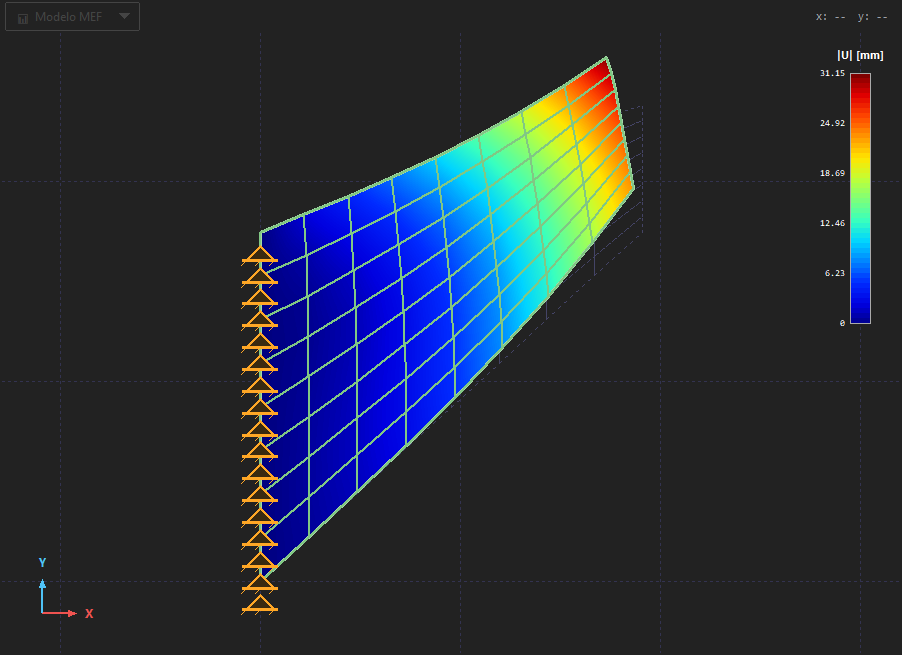
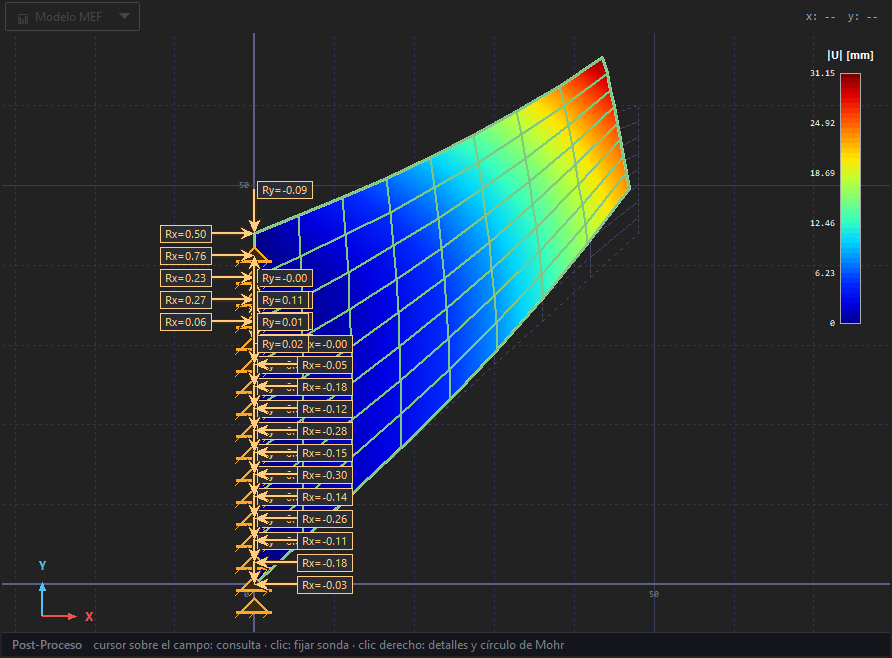
Tesis: las tablas que rompio APA, y las 21 figuras regeneradas
Las tablas se habian desconfigurado: la opcion [document] de ragged2e activa
"raggedrightboxes", que reemplaza el \parindent\z@ de \@arrayparboxrestore por
un \RaggedRight. Como \RaggedRight aplica \RaggedRightParindent, TODA celda p{}
quedaba con 1,27 cm de sangria en su primera linea, asi que el encabezado y el
primer renglon de cada celda se corrian a la derecha y los siguientes quedaban
al ras. Se veia roto en la Nomenclatura y en la tabla de variables. El parche
repone \parindent\z@ y ademas \hyphenpenalty=50: sin guiones, una columna
angosta no puede partir "caracteristico" y se desborda.

De paso, el mismo \hyphenpenalty=10000 desbordaba el texto corrido. ragged2e
limita el estiramiento del margen derecho a 2 em, y sin guiones TeX no podia
cortar la palabra ni correrla: la metia en el margen. Eran 254 lineas, la peor
por 1,7 cm. Con \RaggedRightRightskip = 0pt plus 1fil el renglon termina antes,
que es la bandera derecha que pide APA. Quedaron 0.

Tambien: los indices van justificados (sus puntos suspensivos peleaban con el
rightskip libre), los titulos de seccion pasan a [block] para que uno largo
envuelva en vez de salirse, y dos ecuaciones del Anexo G se parten en dos
renglones. La tabla de nodos del Anexo G reparte 0,34/0,62 en vez de mitad y
mitad, porque el bloque de parametros globales pide 9,4 cm.

Overfull hbox: 254 -> 0. 148 -> 149 hojas.

Figuras: las 21 eran del 1-2 de junio, anteriores al rediseno de la capa visual,
[…]

diff --git a/tesis/preambulo.tex b/tesis/preambulo.tex
@@ -57,8 +57,17 @@
 % Para volver a texto justificado, comentar estas tres lineas.
 \usepackage[document]{ragged2e}
 % ragged2e pone la sangria de primera linea en 0 al activar \RaggedRight; APA la
-% quiere en 1,27 cm, asi que se restituye por su propio parametro.
+% quiere en 1,27 cm, asi que se restituye por su propio parametro. OJO: este
+% parametro tambien entra en las celdas p{} de las tablas, donde no va; se lo
+% neutraliza mas abajo, en el parche de \@arrayparboxrestore.
 \setlength{\RaggedRightParindent}{1.27cm}
+% Bandera derecha LIBRE. ragged2e limita por defecto el estiramiento del margen
+% derecho a 2 em, y con los guiones prohibidos eso deja a TeX sin salida: no
+% puede cortar la palabra ni correrla al renglon siguiente, asi que la mete en
+% el margen. Eran 254 lineas desbordadas, la peor por 1,7 cm. Con "plus 1fil"
+% el renglon simplemente termina antes, que es la bandera derecha de verdad y
+% lo que APA pide ("leave the right margin uneven, or ragged").
+\setlength{\RaggedRightRightskip}{0pt plus 1fil}
 \hyphenpenalty=10000
 \exhyphenpenalty=10000
 
@@ -67,6 +76,31 @@
 \AtBeginEnvironment{tabularx}{\singlespacing}
 \AtBeginEnvironment{longtable}{\singlespacing}
 \AtBeginEnvironment{lstlisting}{\singlespacing}
+
+% --- Las celdas p{} NO heredan la sangria ni la prohibicion de guiones ---
+% La opcion [document] de ragged2e activa "raggedrightboxes", que reemplaza el
+% \parindent\z@ de \@arrayparboxrestore por un \RaggedRight. Como \RaggedRight
+% aplica \RaggedRightParindent, TODA celda p{} quedaba con 1,27 cm de sangria en
+% su primera linea: el encabezado y la primera linea de cada celda se corrian a
+% la derecha y las lineas siguientes quedaban al ras, que es exactamente el
+% desalineado que se veia en la Nomenclatura y en la tabla de variables.
+% Ademas, sin guiones una columna angosta no puede partir "caracteristico" ni
+% "discretizacion" y se desborda. Adentro de una tabla la norma APA no manda:
+% permite explicitamente que el cuerpo se componga como resulte mas efectivo.
+\makeatletter
+\apptocmd{\@arrayparboxrestore}{%
+  \parindent\z@
+  \hyphenpenalty=50 \exhyphenpenalty=50 % los valores por defecto de LaTeX
+}{}{\PackageError{tesis}{No se pudo parchear \string\@arrayparboxrestore}{}}
+
+% --- Los indices (contenido, figuras, tablas) van justificados ---
+% Sus renglones terminan en un relleno de puntos y el numero de pagina; con la
+% bandera derecha libre ese relleno pelea con el \rightskip y el titulo de la
+% figura se mete en el margen. No son texto corrido, asi que la alineacion de
+% APA no les aplica.
+\let\tesis@starttoc\@starttoc
+\renewcommand{\@starttoc}[1]{\begingroup\justifying\tesis@starttoc{#1}\endgroup}
+\makeatother
 
 % --- Matematica ---
 \usepackage{amsmath,amssymb,amsfonts}
@@ -194,8 +228,12 @@
   {\chaptertitlename\ \thechapter}{0.6\baselineskip}{}
 \titlespacing*{\chapter}{0pt}{0pt}{\baselineskip}
 
-\titleformat{\section}
-  {\normalfont\normalsize\bfseries}{\thesection}{1em}{}
+% [block] y no la forma "hang" por defecto: con hang, un titulo largo -"1.8
+% Fenomenos numericos en elementos de bajo orden: bloqueo y modos espurios"- no
+% envuelve y se mete 0,9 cm en el margen derecho. En bloque, parte a dos
+% renglones. El \RaggedRight explicito evita que el titulo salga justificado.
+\titleformat{\section}[block]
+  {\normalfont\normalsize\bfseries\RaggedRight}{\thesection}{1em}{}
 \titlespacing*{\section}{0pt}{\baselineskip}{0pt}
 
 \titleformat{\subsection}

diff --git a/tesis/figuras/gui_capture.py b/tesis/figuras/gui_capture.py
@@ -150,6 +150,32 @@ def _find_toplevels(root, cls_name):
 
 # ───────────────────────── Construcción de la app ──────────────────────────
 
+def _park(app):
+    """Ancla la ventana principal en (0,0) y la achica al area visible.
+
+    Es lo que evita la banda negra: al abrir los dialogos, la ventana terminaba
+    desplazada y su borde derecho quedaba FUERA de la pantalla (el rect del
+    lienzo llegaba a x=1501 en un monitor de 1366). Lo que cae fuera no lo
+    dibuja nadie, asi que se graba negro — y da igual el metodo de captura:
+    PrintWindow sobre el widget, sobre el toplevel o un BitBlt del escritorio
+    devuelven los tres el mismo 15 % de negro. La unica cura es que la ventana
+    entre entera en la pantalla antes de capturar.
+    """
+    try:
+        sw = app.root.winfo_screenwidth()
+        sh = app.root.winfo_screenheight()
+        # geometry() fija el area CLIENTE: el marco de la ventana suma unos
+        # pixeles mas, asi que pedir el ancho entero de la pantalla deja el
+        # borde derecho 5 px afuera (y esos 5 px salen negros). De ahi el margen.
+        w = min(app.root.winfo_width(), sw - 20)
+        h = min(app.root.winfo_height(), sh - 60)  # deja lugar a la barra de tareas
+        app.root.geometry(f"{w}x{h}+0+0")
+        app.root.update_idletasks()
+    except Exception:
+        pass
+    _pump(app.root, 6)
+
+
 def _build_app():
     """Crea UNA sola instancia de MainWindow. ttkbootstrap no tolera bien
     crear/destruir múltiples ttk.Window (pierde estilos custom como
@@ -158,6 +184,7 @@ def _build_app():
     app = MainWindow()
     app.root.update_idletasks()
     app.root.update()
+    _park(app)
     return app
 
 
@@ -232,6 +259,9 @@ def _cleanup(app):
         pass
     app.notebook.select(0)
     _pump(app.root, 8)
+    # Volver a anclar la ventana: los dialogos la desplazan y, si su borde
+    # derecho queda fuera de la pantalla, esa franja se captura en negro.
+    _park(app)
 
 
 # ───────────────────────── Figuras ─────────────────────────────────────────

diff --git a/docs/notas/2026-09-10_apa-presentacion.md b/docs/notas/2026-09-10_apa-presentacion.md
@@ -39,6 +39,26 @@ Son decisiones del autor. **No las "corrijas" a la letra de APA sin preguntarle.
 - **`ragged2e` pone `\parindent` en cero.** Al activar `\RaggedRight` la sangría de primera
   línea desaparece, que es justo lo contrario de lo que pide APA. Se restituye con
   `\setlength{\RaggedRightParindent}{1.27cm}`, no con `\setlength{\parindent}{...}`.
+- **…y ese `\RaggedRightParindent` se cuela en las celdas `p{}` y desconfigura las tablas.**
+  La opción `[document]` activa `raggedrightboxes`, que **reemplaza** el `\parindent\z@` de
+  `\@arrayparboxrestore` por un `\RaggedRight`. Resultado: toda celda `p{}` sangraba su
+  primera línea 1,27 cm, así que el encabezado y el primer renglón de cada celda se corrían
+  a la derecha y los siguientes quedaban al ras. Se veía roto en la Nomenclatura y en
+  `tab:variables`. Se arregla con un `\apptocmd{\@arrayparboxrestore}` que repone
+  `\parindent\z@` **y** `\hyphenpenalty=50` (sin guiones, una columna angosta no puede partir
+  «característico» y se desborda). **No** tocar los anchos de las tablas para compensar esto:
+  el problema no eran los anchos.
+- **Sin guiones hay que soltar la bandera derecha, o el texto se va al margen.** `ragged2e`
+  limita por defecto el estiramiento a 2 em; con `\hyphenpenalty=10000` TeX no puede cortar
+  la palabra ni correrla, y la mete en el margen: **254 líneas desbordadas**, la peor por
+  1,7 cm. Con `\setlength{\RaggedRightRightskip}{0pt plus 1fil}` el renglón simplemente
+  termina antes —que es la bandera derecha de verdad— y quedaron **0**.
+- **Los índices (`\@starttoc`) van justificados.** Sus renglones terminan en puntos suspensivos
+  más el número de página; con la bandera libre ese relleno pelea con el `\rightskip` y el
+  título de la figura se mete en el margen.
+- **`titlesec` con la forma `hang` no envuelve un título largo.** «1.8 Fenómenos numéricos en
+  elementos de bajo orden: bloqueo y modos espurios» se salía 0,9 cm. Con `[block]` parte a
+  dos renglones.
 - **Los rótulos de figura no hacen falta moverlos a mano.** APA los quiere arriba de la
   imagen y los 29 entornos `figure` de los capítulos traen el `\caption` al final.
   `\floatstyle{plaintop}` + `\restylefloat{figure}` lo resuelve desde el preámbulo. No
@@ -49,6 +69,34 @@ Son decisiones del autor. **No las "corrijas" a la letra de APA sin preguntarle.
 - **Tablas, `longtable` y `lstlisting` van a espacio sencillo** vía
   `\AtBeginEnvironment`. APA admite la excepción para tablas y figuras; el código se sumó
   por el mismo motivo (a doble espacio un fragmento de Python es ilegible).
+
+## Figuras: regeneradas todas el 2026-09-10
+
+Las 21 capturas y diagramas eran del 1-2 de junio, o sea **anteriores** al rediseño de la
+capa visual (09-09), al redimensionado de ventanas (09-10) y a la corrección de la
+extrapolación Q4 (09-07). Se regeneraron con sus guiones autoritativos:
+`tesis/figuras/gui_capture.py` (19 capturas de la GUI real),
+`tesis/figuras/generar_figuras.py` (2 diagramas) y `tests/vv_mms.py` + `tests/vv_timoshenko.py`
+(las de V&V, que se copian de `docs/vyv/figuras/`).
+
+Ahora `fig_postproceso` muestra las reacciones del rediseño y **VM = 864,70**, el valor
+correcto; la vieja traía el 977,46 del bug de extrapolación.
+
+**Trampa de `gui_capture.py`: la ventana se iba fuera de pantalla.** Tras abrir los diálogos
+la ventana quedaba desplazada y su borde derecho caía fuera del monitor (el rect del lienzo
+llegaba a x=1501 en una pantalla de 1366). Lo que cae afuera no lo dibuja nadie y se graba
+negro: **13 de 19 figuras tenían una banda negra de 155 px**. Da igual el método de captura
+—PrintWindow sobre el widget, sobre el toplevel o un BitBlt del escritorio devuelven los tres
+el mismo 15 % de negro—; lo único que lo cura es anclar la ventana antes de capturar, que es
+lo que hace `_park()`. Ojo con el margen: `geometry()` fija el área **cliente** y el marco
+suma unos píxeles, así que pedir el ancho entero de la pantalla deja 5 px afuera.
+
+Si una figura sale con banda negra, correr
+`.venv\Scripts\python.exe tesis\figuras\gui_capture.py <selector>` (los selectores están en
+`main()`) y verificar con un conteo de píxeles negros, no a ojo.
+
+**M7 se cuelga a veces** al capturarla en serie (el proceso queda bloqueado, sin consumir
+CPU). Corriéndola sola —`gui_capture.py m7`— sale bien.
 
 ## Vancouver: lo que se corrigió el mismo día
 
